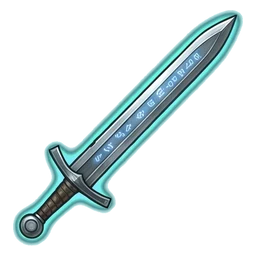
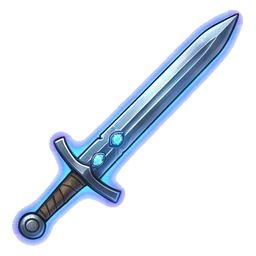
15 artı eşya ikonu Gemini sanatıyla; doğrulama modu güncellendi
arti-1 sayfası (5x3): Ammunition/Armor/Shield/Weapon/Wand of the War Mage +1/+2/+3. CLAUDE.md hafif doğrulama modu: check:harita ve check:ses yalnız ilgili görevlerde (kullanıcı kararı 2026-11-26).

Changed region(s): [[0.0312, 0.0312, 0.9688, 0.9688]]

diff --git a/DECISIONS.md b/DECISIONS.md
@@ -2,6 +2,23 @@
 
 Projede alınan içerik ve kural kararlarının kaydı. En yeni karar en üstte.
 
+## Görev ESYA-IKON-ARTI: +1/+2/+3 eşyaları Gemini ikon sayfasından; doğrulama modu daraldı (2026-11-26; yalnız görünüm, kural/kayıt sürümü yok)
+
+- **15 artı eşya** (Ammunition, Armor, Shield, Weapon, Wand of the War Mage × +1/+2/+3) artık üst kimliğin ikonunu paylaşmıyor:
+  `data/esya-ikon-sayfalar.json` son sayfası `arti-1.jpg` (5 × 3, satır = +N, Gemini çizimi; +1 sade, +2 mavi rünlü parıltı, +3 altın
+  süslemeli parıltı). Kimlikler oyun kayıtlarıyla birebir tuttu; `data/esya-ikon-ayirt.json`'da bunlara kural yok.
+- **Macenta zemin** (`scripts/esya-ikon.mjs` `zeminKipi`): köşeden okunan zemin `isMagenta` (`scripts/lib/madalyon.mjs`) ise macenta
+  kipi. Taşkın dolgu macenta fazlası (min(R, B) − G > 0) olan ve zemine uzaklığı < 200 pikselleri alır (koyu dış çizgi durdurur).
+  Alfa/renk yeşildeki uzaklık rampasıyla değil `macentaAyristir` ile: Gemini parıltısı tek renk + zemin karışımı olduğundan anahtarlı
+  piksel, anahtarlı bölgeden ≥ 3 px içerideki en yakın nesne pikselinin rengine izdüşürülür (alfa izdüşümden, renk parıltının kendisi);
+  izdüşüm tutmazsa (artık > 30) fark matı a = 1 − fazla/fazla(zemin). Bitişik 3 px'lik geçiş halkası yalnız izdüşüm tutarsa çözülür (dış
+  çizgi ve mor gövde gibi nesne renkleri olduğu gibi kalır). Despill (1, 0, 1) yönündeki fazlayı R ve B'den düşer. İlk deneme (yeşil kuralın
+  macenta aynası) +3'ün altın halesini somon-pembe bırakıyordu. Yeşil sayfalarda kod yolu değişmedi: 39 sayfanın 550 ikonu (256 + 96)
+  önce/sonra bayt bayt aynı.
+- **Hafif doğrulama modu güncellemesi** (kullanıcı kararı): her görevde typecheck + ilgili testler + build; `check:harita` yalnız harita
+  JSON'u/görseli/yükleyicisi ya da savaş çizim koduna, `check:ses` yalnız ses dosyası/motoru/`data/ses*.json`'a dokunan görevde; yalnız
+  ikon/görsel varlık/veri/doküman görevlerinde ikisi de çalıştırılmaz ve raporda "dokunulmadı" yazılır.
+
 ## Görev ESYA-IKON-AYIRT: aynı ikonu paylaşan eşya varyantları ayrıştı (2026-11-26; yalnız görünüm, kural/kayıt sürümü yok)
 
 61 kayıt SRD üst kimliğinin tek ikonunu paylaşıyordu (Ammunition/Armor/Shield/Weapon/Wand of the War Mage +1/+2/+3, Armor/Potion/Ring of

diff --git a/CLAUDE.md b/CLAUDE.md
@@ -193,8 +193,9 @@ npm run srd:canavar    # Görev D1: SRD canavar stat blokları → data/srd/mons
 - **Ekran metinleri** `src/i18n/strings.ts` (TR) ve `src/i18n/strings.en.ts` (EN, tembel), aynı yapı; arayüz `t()` ile okur, koda metin yazılmaz. "Game Master" yazılır, "GM" değil.
 - **Komutlar:** Kullanıcıya verilen komutlar PowerShell sözdiziminde.
 - **Küçük adımlar:** Her adımda typecheck, ilgili testler ve build yeşil kalmalı (ayrıntı: hafif doğrulama modu).
-- **Hafif doğrulama modu (kalıcı kural; kullanıcı kararı 2026-11-22, DECISIONS.md):**
-  - Her görevde yalnız: `npm run typecheck`, o görevin dokunduğu dosyalarla ilgili testler, `npm run build`, `npm run check:harita` ve `npm run check:ses` (bulutta TimeoutError verirse rapora gerçek durum yazılır).
+- **Hafif doğrulama modu (kalıcı kural; kullanıcı kararı 2026-11-22, 2026-11-26 güncellemesi, DECISIONS.md):**
+  - Her görevde yalnız: `npm run typecheck`, o görevin dokunduğu dosyalarla ilgili testler ve `npm run build`.
+  - `npm run check:harita` yalnız harita JSON'una, harita görseline, harita yükleyicisine ya da savaş çizim koduna dokunan görevde; `npm run check:ses` yalnız ses dosyasına, ses motoruna ya da `data/ses*.json`'a dokunan görevde (bulutta TimeoutError verirse rapora gerçek durum yazılır). Yalnız ikon/görsel varlık/veri/doküman görevlerinde ikisi de çalıştırılmaz, raporda "dokunulmadı" yazılır.
   - Görev sonunda tam `npm test` çalıştırılmaz. Tam `npm test` günde bir kez, akşam en sonda, kullanıcı istediğinde ayrı görev olarak.
   - Uzun testleri arka planda başlatıp sonuç gelmeden "geçti" denmez; rapora gerçek durum yazılır.
   - Denge ölçümü yalnızca yeni parti eklenen görevlerde ve 100 tohumla; 200 tohum, eski partilerin tam ölçümü ve düşman listesi düzeltme denemeleri yapılmaz, aralık dışı satırlar `harita/belgeler/DENGE.md`'ye yazılır. Ortak motor değişirse yalnızca 3–4 senaryolu hızlı regresyon. Ekran görüntüsü yalnızca arayüz değişen görevlerde ve tek görüntü. Tam ölçüm, düzeltme ve optimizasyon "Dungeondex öncesi tam test turu" görevine kalır; kullanıcı o görevi verene kadar yapılmaz.
